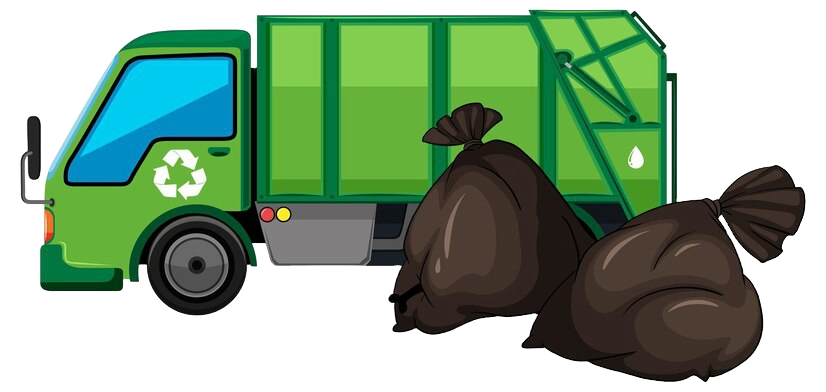
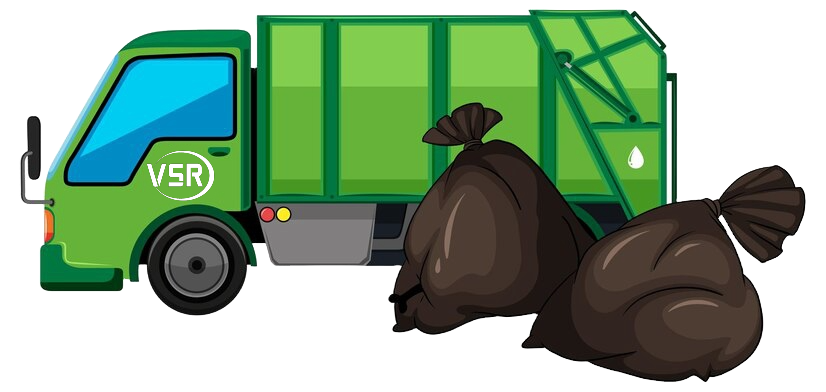
updating services

Changed region(s): [[0.1816, 0.3673, 0.2724, 0.5204]]

diff --git a/public/index.html b/public/index.html
@@ -216,7 +216,13 @@
       
       
       
-  <img class="" src="https://veteranscrapremoval.netlify.app/images/full_logo_black.png" alt="images/full_logo_black.png" width="869" height="547">
+<img
+  class=""
+  src="https://veteranscrapremoval.netlify.app/images/small_logo_black.png"
+  alt="images/small_logo_black.png"
+  width="411"
+  height="314"
+/>
 
  
     </a>
@@ -273,8 +279,9 @@
         class="col-12 col-xl-6 d-flex flex-column justify-content-center hero-image"
       >
         
+  <img class="img-fluid" src="https://veteranscrapremoval.netlify.app/images/full_logo_black.png" alt="images/full_logo_black.png" width="869" height="547">
 
-        <sub class="p-3">  </sub>
+
       </div>
       <div class="col-12 col-xl-6 d-flex flex-column justify-content-center">
         
@@ -328,7 +335,7 @@
         <div class="col-12 col-xl-4">
           <div class="card bg-blue-16 border-0 border-radius-34 p-4">
             
-  <img class="img-fluid" src="https://veteranscrapremoval.netlify.app/images/services-web-development.png" alt="images/services-web-development.png" width="1098" height="824">
+  <img class="img-fluid" src="https://veteranscrapremoval.netlify.app/images/garbage-truck-green-color-with-trash-bag.png" alt="images/garbage-truck-green-color-with-trash-bag.png" width="826" height="392">
 
 
             <div class="card-body text-center">

diff --git a/layouts/partials/sections/hero.html b/layouts/partials/sections/hero.html
@@ -4,15 +4,7 @@
       <div
         class="col-12 col-xl-6 d-flex flex-column justify-content-center hero-image"
       >
-        {{ partial "utilities/image-fluid"
-        "images/garbage-truck-green-color-with-trash-bag.png" }}
-        <sub class="p-3">
-          <a
-            href="https://www.freepik.com/free-vector/garbage-truck-green-color-with-trash-bag_39207411.htm#query=trash%20truck&position=1&from_view=search&track=ais&uuid=f3929724-d3c3-4b36-8a4d-45b23ce038ca"
-            >Image by brgfx</a
-          >
-          on Freepik
-        </sub>
+        {{ partial "utilities/image-fluid" "images/full_logo_black.png" }}
       </div>
       <div class="col-12 col-xl-6 d-flex flex-column justify-content-center">
         {{ with .content.title }}

diff --git a/public/contact/index.html b/public/contact/index.html
@@ -216,7 +216,13 @@
       
       
       
-  <img class="" src="https://veteranscrapremoval.netlify.app/images/full_logo_black.png" alt="images/full_logo_black.png" width="869" height="547">
+<img
+  class=""
+  src="https://veteranscrapremoval.netlify.app/images/small_logo_black.png"
+  alt="images/small_logo_black.png"
+  width="411"
+  height="314"
+/>
 
  
     </a>

diff --git a/public/pricing/index.html b/public/pricing/index.html
@@ -216,7 +216,13 @@
       
       
       
-  <img class="" src="https://veteranscrapremoval.netlify.app/images/full_logo_black.png" alt="images/full_logo_black.png" width="869" height="547">
+<img
+  class=""
+  src="https://veteranscrapremoval.netlify.app/images/small_logo_black.png"
+  alt="images/small_logo_black.png"
+  width="411"
+  height="314"
+/>
 
  
     </a>

diff --git a/public/series/index.html b/public/series/index.html
@@ -215,7 +215,13 @@
       
       
       
-  <img class="" src="https://veteranscrapremoval.netlify.app/images/full_logo_black.png" alt="images/full_logo_black.png" width="869" height="547">
+<img
+  class=""
+  src="https://veteranscrapremoval.netlify.app/images/small_logo_black.png"
+  alt="images/small_logo_black.png"
+  width="411"
+  height="314"
+/>
 
  
     </a>

diff --git a/public/tags/index.html b/public/tags/index.html
@@ -215,7 +215,13 @@
       
       
       
-  <img class="" src="https://veteranscrapremoval.netlify.app/images/full_logo_black.png" alt="images/full_logo_black.png" width="869" height="547">
+<img
+  class=""
+  src="https://veteranscrapremoval.netlify.app/images/small_logo_black.png"
+  alt="images/small_logo_black.png"
+  width="411"
+  height="314"
+/>
 
  
     </a>

diff --git a/layouts/partials/utilities/image.html b/layouts/partials/utilities/image.html
@@ -1,3 +1,9 @@
 {{ with resources.Get . }}
-  <img class="" src="{{ .Permalink }}" alt="{{ .Title }}" width="{{ .Width }}" height="{{ .Height }}">
+<img
+  class=""
+  src="{{ .Permalink }}"
+  alt="{{ .Title }}"
+  width="{{ .Width }}"
+  height="{{ .Height }}"
+/>
 {{ end }}
